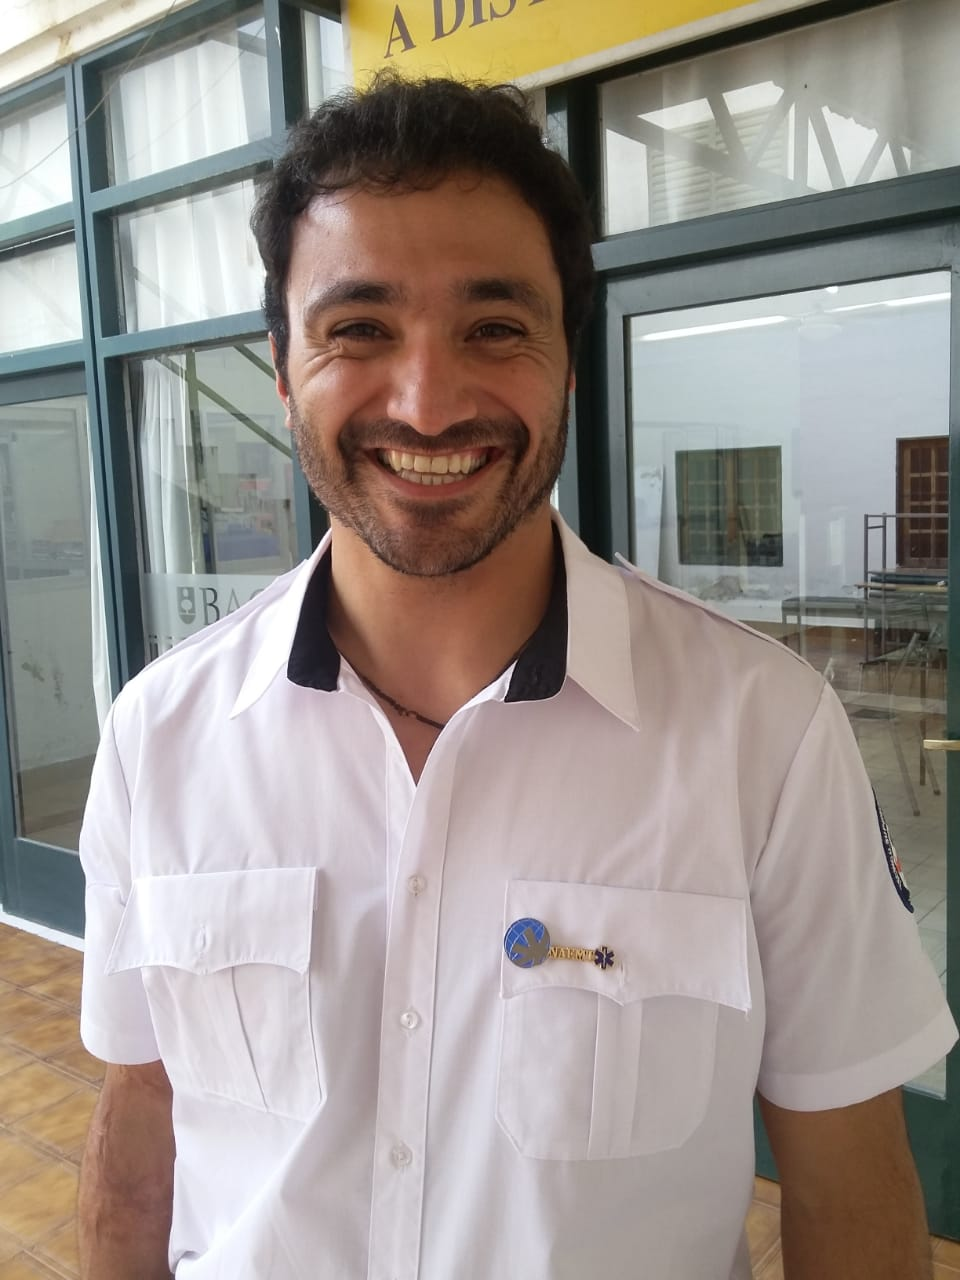
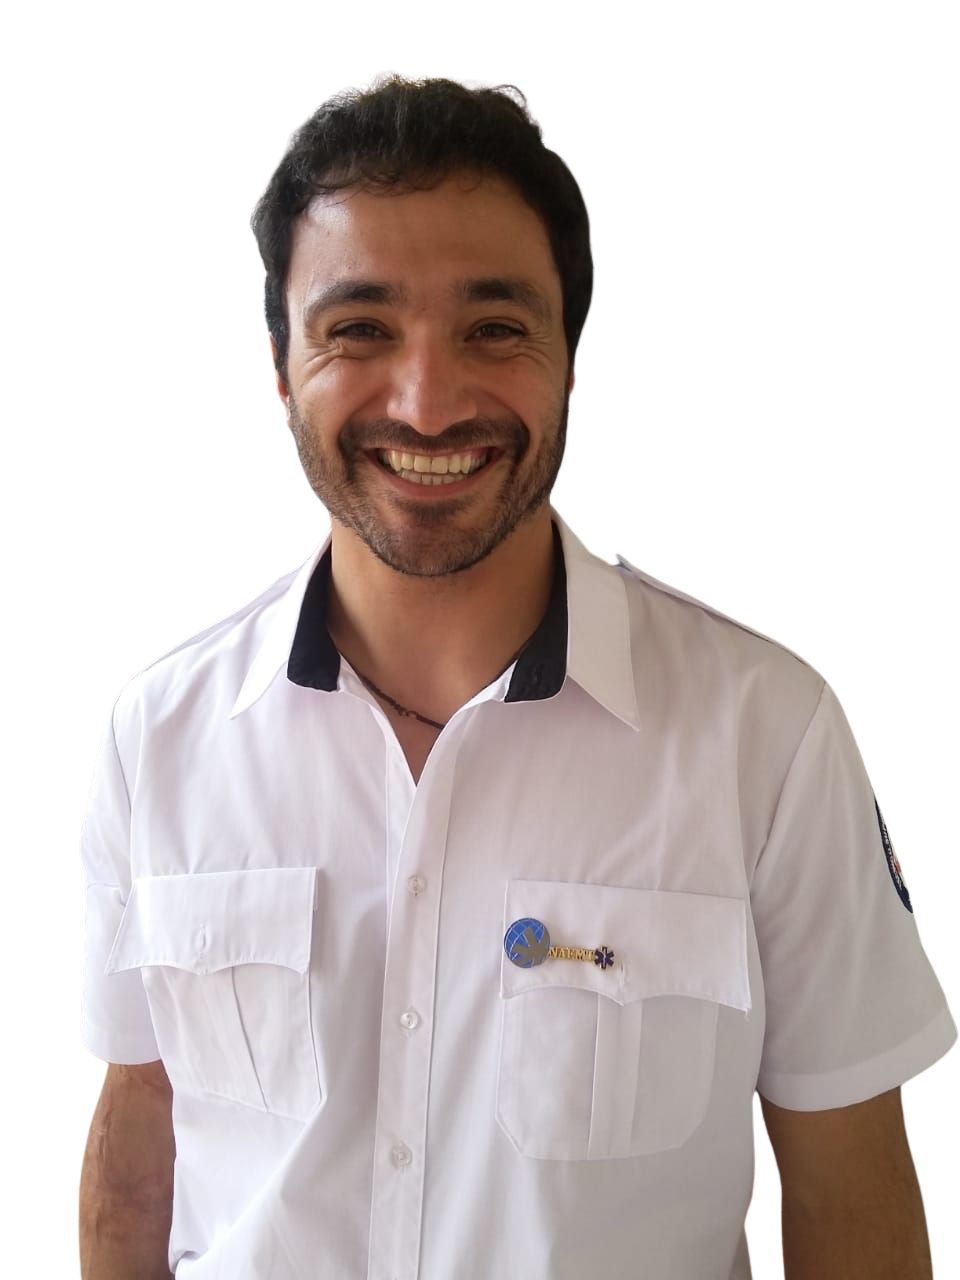
images and texts updated

diff --git a/components/Authorities.jsx b/components/Authorities.jsx
@@ -31,7 +31,7 @@ export default function Authorities() {
     {
       name: 'Ivana Nogueira',
       position: 'Secretaria Académica',
-      specialty: 'Salud Mental en Emergencias',
+      specialty: 'Lic. en Psicología - Especialista Jerarquizada en Salud Comunitaria, Emergencias y Desastres - Coordinadora PROSAMIC - Jefa de Programa de formación y vinculación en Emergencias Sanitarias de Moreno.',
       image: getImageUrl(authorityImages.tesorera),
     },
     {
@@ -51,7 +51,7 @@ export default function Authorities() {
   const currentVocales = [
     { name: 'Alejandra Schro', position: 'Vocal 1', specialty: 'Medicina Prehospitalaria', image: getImageUrl(vocalImages.alejandraSchro) },
     { name: 'Claudia Congett', position: 'Vocal 2', specialty: 'Emergencias Médicas', image: getImageUrl(vocalImages.placeholder) },
-    { name: 'Juan Peresson', position: 'Vocal 3', specialty: 'Atención Prehospitalaria', image: getImageUrl(vocalImages.placeholder) },
+    { name: 'Juan Manuel Peresson', position: 'Vocal 3', specialty: 'Atención Prehospitalaria', image: getImageUrl(vocalImages.placeholder) },
     { name: 'Nelson Mir', position: 'Vocal 4', specialty: 'Tec. Sup. en Emergencias Médicas - Director de Emergencias de la provincia de Santiago del Estero', image: getImageUrl(vocalImages.nelsonMir) },
     { name: 'Luciana Espindola', position: 'Vocal Suplente', specialty: 'Medicina de Emergencias', image: getImageUrl(vocalImages.lucianaEspindola) },
     { name: 'Rodrigo Garcia Marte', position: 'Vocal Suplente', specialty: 'Técnico en Emergencias Extrahospitalarias - Jefe del Depto. Técnico Operativo de Emergencias - Tierra del Fuego', image: getImageUrl(vocalImages.rodrigoGarciaMarte) },

diff --git a/lib/images.js b/lib/images.js
@@ -90,7 +90,7 @@ export const pastEvents = [
     highlights: [
       'Conferencias magistrales internacionales',
       'Talleres prácticos',
-      'Más de 500 participantes',
+      'Más de 1000 participantes',
       'Certificación internacional',
     ],
   },
@@ -105,8 +105,8 @@ export const eventImages = upcomingEventImages
  */
 export const authorityImages = {
   presidente: {
-    local: '/images/authorities/william-medina-presidente.jpeg',
-    external: '/images/authorities/william-medina-presidente.jpeg',
+    local: '/images/authorities/william-medina-presidente.jpg',
+    external: '/images/authorities/william-medina-presidente.jpg',
     alt: 'Dr. William Medina - Presidente',
   },
   vicepresidenta: {
@@ -120,8 +120,8 @@ export const authorityImages = {
     alt: 'Lucas Henkel - Secretario Administrativo',
   },
   tesorera: {
-    local: '/images/authorities/ivana-nogueira.jpeg',
-    external: '/images/authorities/ivana-nogueira.jpeg',
+    local: '/images/authorities/ivana-nogueira.jpg',
+    external: '/images/authorities/ivana-nogueira.jpg',
     alt: 'Ivana Nogueira - Secretaria Académica',
   },
   vocal1: {

diff --git a/components/UpcomingEvents.jsx b/components/UpcomingEvents.jsx
@@ -9,7 +9,7 @@ export default function UpcomingEvents() {
       location: 'Universidad Nacional Arturo Jauretche (UNAJ)',
       time: '09:00 - 18:00 hs',
       attendees: '8-16 equipos',
-      description: 'Competencia académica organizada por SAMPRE con escenarios simulados de emergencias prehospitalarias. Los equipos compiten en el manejo de situaciones de emergencia realistas. Inscripción: $100.000 ARS (equipos nacionales) / USD 100 (equipos internacionales).',
+      description: 'Competencia académica organizada por SAMPRE con escenarios simulados de emergencias prehospitalarias. Los equipos compiten en el manejo de situaciones de emergencia realistas.',
       category: 'Competencia Académica',
       featured: true,
       image: getImageUrl(eventImages.rallyPrehospitalario2026),

diff --git a/components/Recognitions.jsx b/components/Recognitions.jsx
@@ -62,7 +62,7 @@ export default function Recognitions() {
       id: 7,
       name: 'TSEM. Luciano Gandini',
       title: 'Socio Fundador y Primer Presidente SAMPRE',
-      description: 'Técnico Superior en Emergencias Médicas. Coordinador Académico PAR Paramédico Argentino. Instructor NAEMT.',
+      description: 'Técnico Superior en Emergencias Médicas. Coordinador Académico PAR Paramédico Argentino. Facultado NAEMT PHTLS AMLS ',
       image: '/images/mentions/luciano-gandini.jpg',
       specialty: 'Emergencias Médicas',
     },

diff --git a/components/Services.jsx b/components/Services.jsx
@@ -38,7 +38,7 @@ export default function Services() {
     {
       icon: ShieldCheck,
       title: 'Certificaciones',
-      description: 'Programas de certificación profesional en diferentes áreas de la medicina prehospitalaria con validez nacional.',
+      description: 'Programas de certificación de servicios y de profesionales en diferentes áreas de la medicina prehospitalaria con validez nacional.',
     },
   ]
 
